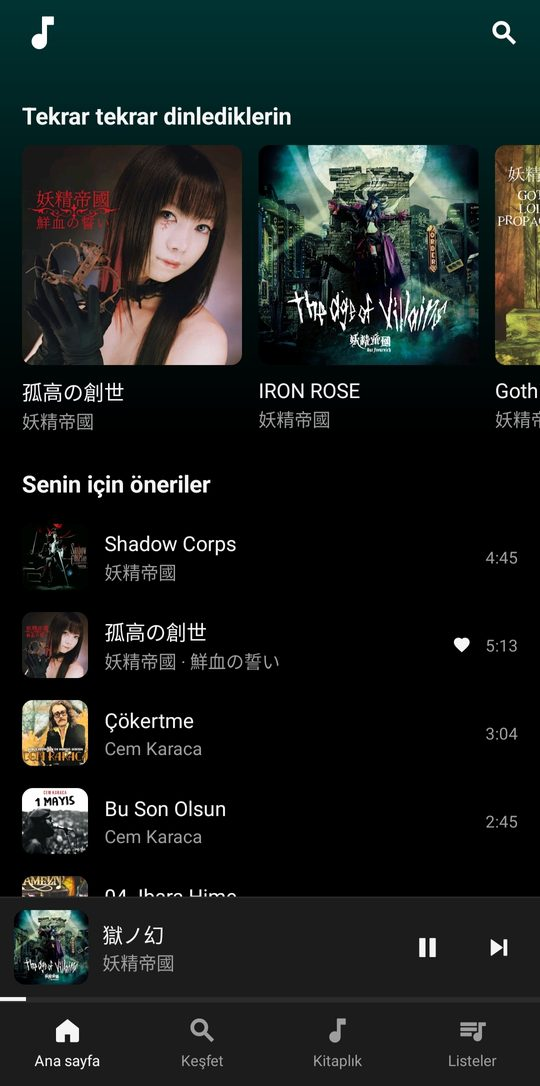
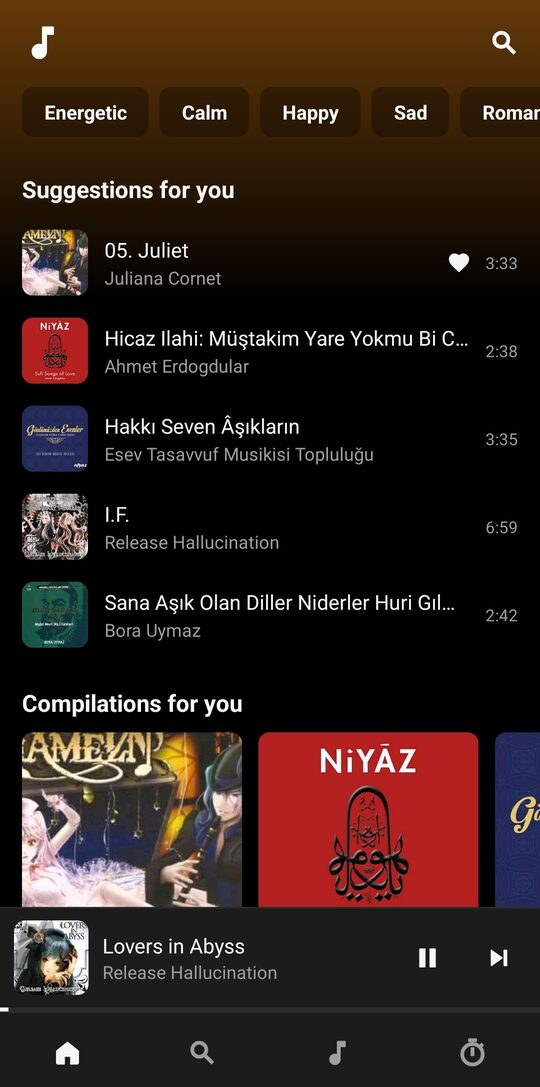
Show the English interface in the screenshots
The home shot was taken on a Turkish build, so the README opened on labels no
reader of it could follow. Replaced with the same screen in English and added
the artist page, which is the one place the links and the subscribe button
show up.

diff --git a/README.md b/README.md
@@ -5,9 +5,9 @@
 Music player for Android. It plays the songs already on your phone, and when you want something
 else, it can fetch it. What it records about your listening stays on your own phone.
 
-| Home | Now playing |
-| --- | --- |
-| ![Home](docs/home.jpg) | ![Now playing](docs/player.jpg) |
+| Home | Artist | Now playing |
+| --- | --- | --- |
+| ![Home](docs/home.jpg) | ![Artist](docs/artist.jpg) | ![Now playing](docs/player.jpg) |
 
 ## What you get
 
